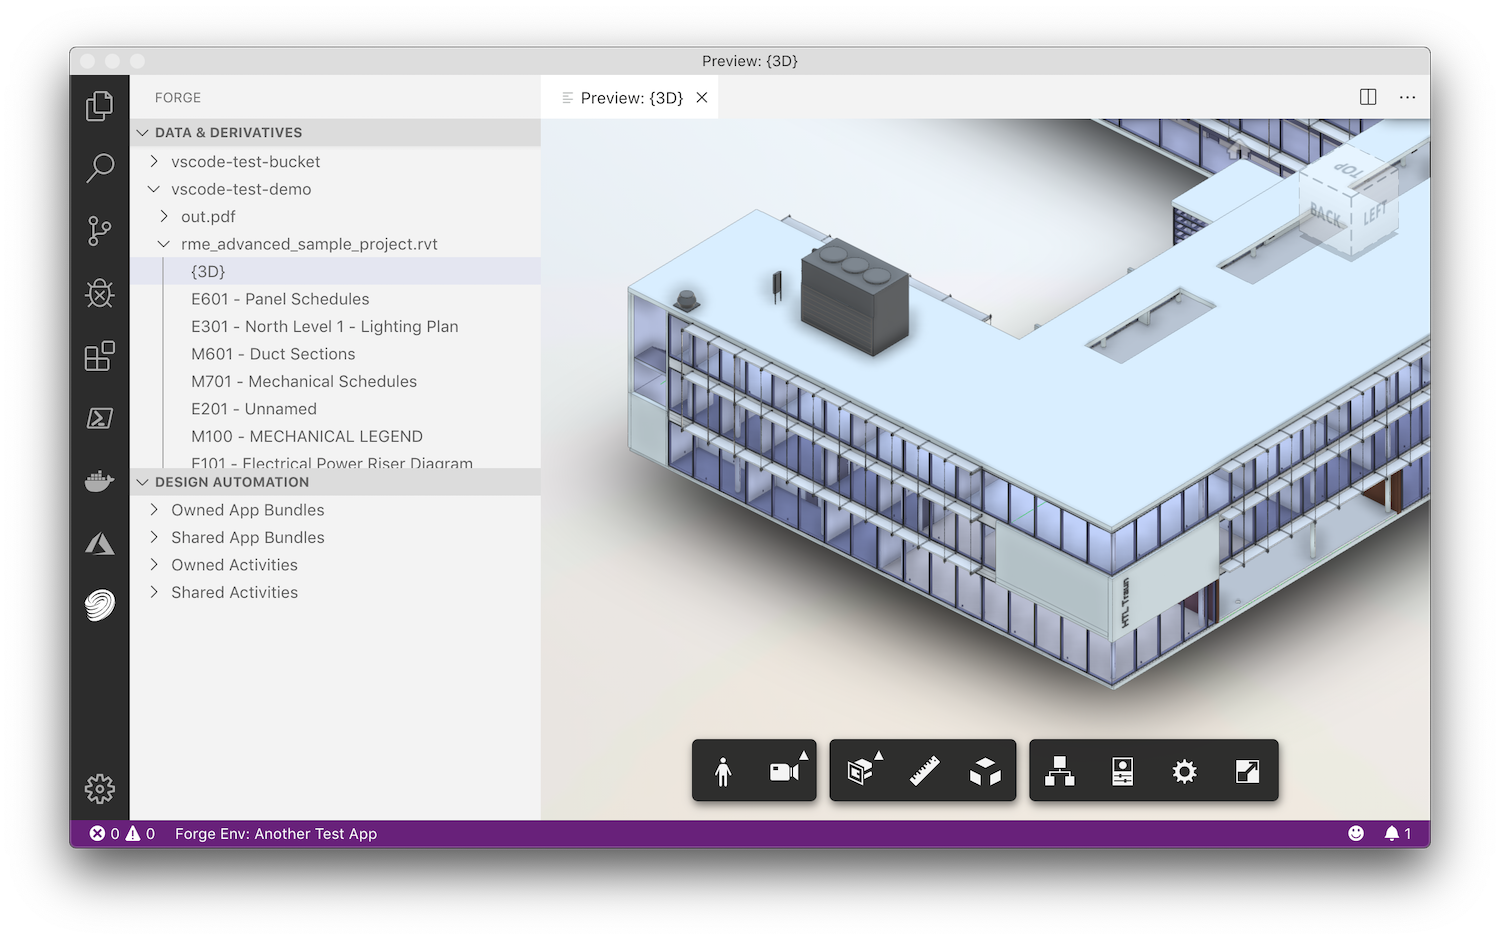
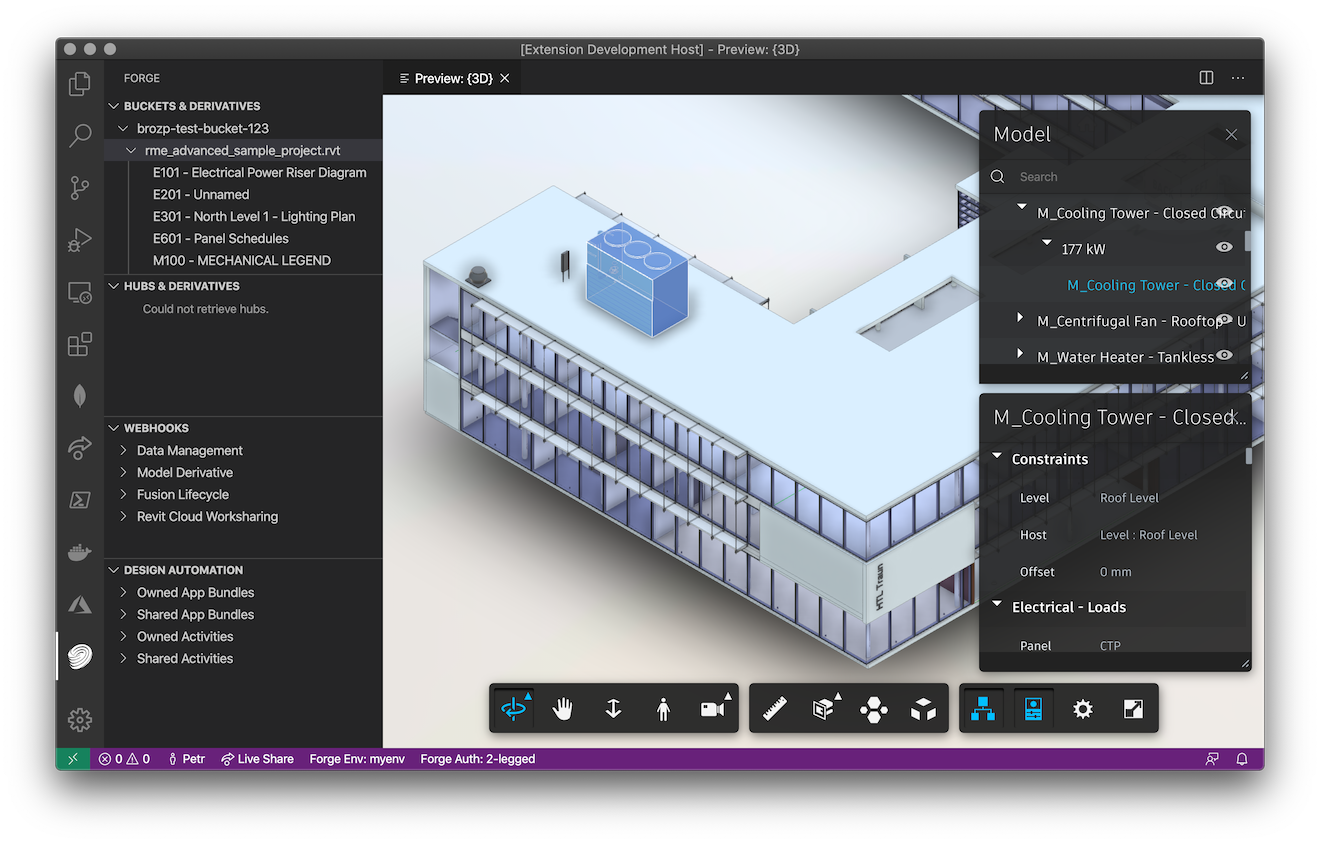
Updated readme.

diff --git a/README.md b/README.md
@@ -55,15 +55,15 @@ based on the _first_ environment in the list.
 > Note: if you have configured the extension both in the _User_ scope and in the _Workspace_ scope,
 the extension will present the list of environments from the _Workspace_ scope as it has higher precedence.
 
-### Data & Derivatives View
+### Buckets & Derivatives View
 
-The _Data & Derivatives_ view allows you to browse [Forge Data Management](https://forge.autodesk.com/en/docs/data/v2/developers_guide/overview) content, create buckets, upload/download objects, translate objects using [Forge Model Derivative](https://forge.autodesk.com/en/docs/model-derivative/v2) service, and access the resulting derivatives. All derivatives are listed as children of the corresponding object in the tree. If there are no derivatives yet, or if there's been a translation issue, the tree view will provide additional information.
+The _Buckets & Derivatives_ view allows you to browse [Forge Data Management](https://forge.autodesk.com/en/docs/data/v2/developers_guide/overview) OSS (object simple storage) content, create buckets, upload/download files, translate them using [Forge Model Derivative](https://forge.autodesk.com/en/docs/model-derivative/v2) service, and access the resulting derivatives. All derivatives are listed as children of their corresponding objects in the tree. If there are no derivatives yet, or if there's been an issue with the translation, the tree view will provide additional information.
 
 ![Create bucket and upload object](https://github.com/petrbroz/vscode-forge-tools/raw/develop/docs/create-bucket-upload-file.gif)
 
 ![Translate object and view derivatives](https://github.com/petrbroz/vscode-forge-tools/raw/develop/docs/translate-and-preview.gif)
 
-For objects that have already been translated using the Model Derivative service, you can use a command (or a context menu item) called `Download Object Derivatives` which will download the SVF file (proprietary format used for viewing 3D content in Forge Viewer) and all its dependencies into a folder you pick,
+For objects that have already been translated using the Model Derivative service, you can use a command (or a context menu item) called `Download Object Derivatives as SVF` which will download the SVF file (proprietary format used for viewing 3D content in Forge Viewer) and all its dependencies into a folder you pick,
 similarly to the functionality provided by https://extract.autodesk.io. All the content will be stored using the following subfolder structure:
 
 ```
@@ -78,9 +78,19 @@ similarly to the functionality provided by https://extract.autodesk.io. All the 
     <files shared by all viewables>
 ```
 
+Additional output formats are also supported, for example, F2D, OTG, or glTF.
+
+### Hubs & Derivatives View
+
+Experimental feature similar to the _Buckets & Derivatives_ view, but using a 3-legged authentication instead, allowing the user to browse their A360 hubs, BIM360 hubs, etc. In order for this view to be available, the user must first log into their Forge application with their Autodesk account. This can be done either by clicking the "Forge Auth" button in the bottom status bar, or by using the `forge.login` command. The extension will spin up a temporary web server on a preconfigured port (8123 by default), providing additional information about the login process, and waiting for a callback from the Autodesk servers.
+
+### Webhooks View
+
+The _Webhooks_ view can be used to browse and configure the [Forge Webhooks](https://forge.autodesk.com/en/docs/webhooks/v1/developers_guide/overview) service.
+
 ### Design Automation View
 
-The _Design Automation_ can be used for browsing [Forge Design Automation](https://forge.autodesk.com/en/docs/design-automation/v2/developers_guide/overview) entities such as app bundles and activities. It also provides a context menu that can be used to view additinal details of individual bundles or activities.
+The _Design Automation_ can be used for browsing [Forge Design Automation](https://forge.autodesk.com/en/docs/design-automation/v3/developers_guide/overview) entities such as app bundles and activities. It also provides a context menu that can be used to view additinal details of individual bundles or activities.
 
 ![Design Automation Preview](https://github.com/petrbroz/vscode-forge-tools/raw/develop/docs/design-automation-preview.gif)
 
@@ -88,9 +98,8 @@ The _Design Automation_ can be used for browsing [Forge Design Automation](https
 
 - clone the repository
 - install and setup dependencies: `yarn install`
-- open the project in vscode and launch the _Run Extension_ task; new vscode window will open
+- open the project in vscode and launch the _Launch Extension_ task; new vscode window will open
 - make sure you have at least one set of Forge credentials configured (see [Getting Started](#getting-started) and [Extension Settings](#extension-settings))
 - click on the Forge icon in the sidebar and start browsing
 
-> When debugging a webview inside vscode, you can open Chrome Dev Tools for it
-> using the standard shortcut (`Option`+`Command`+`I` on macOS, `Control`+`Shift`+`I` on Windows)
+> When debugging a webview inside vscode, use the `Developer: Open Webview Developer Tools` and the `Developer: Reload Window` commands.
